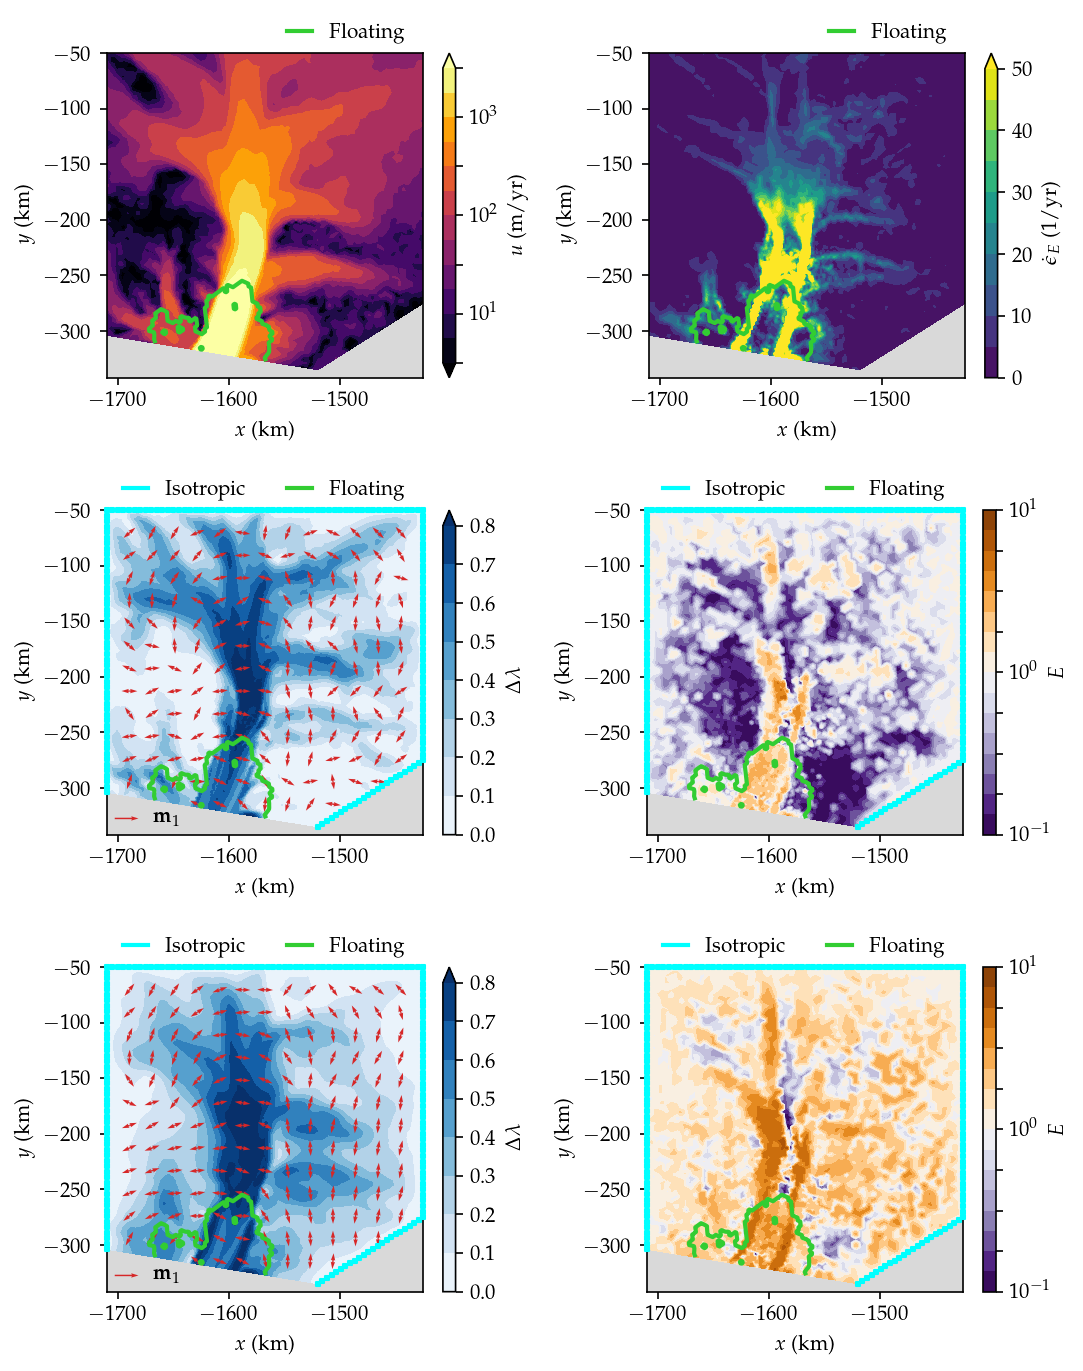
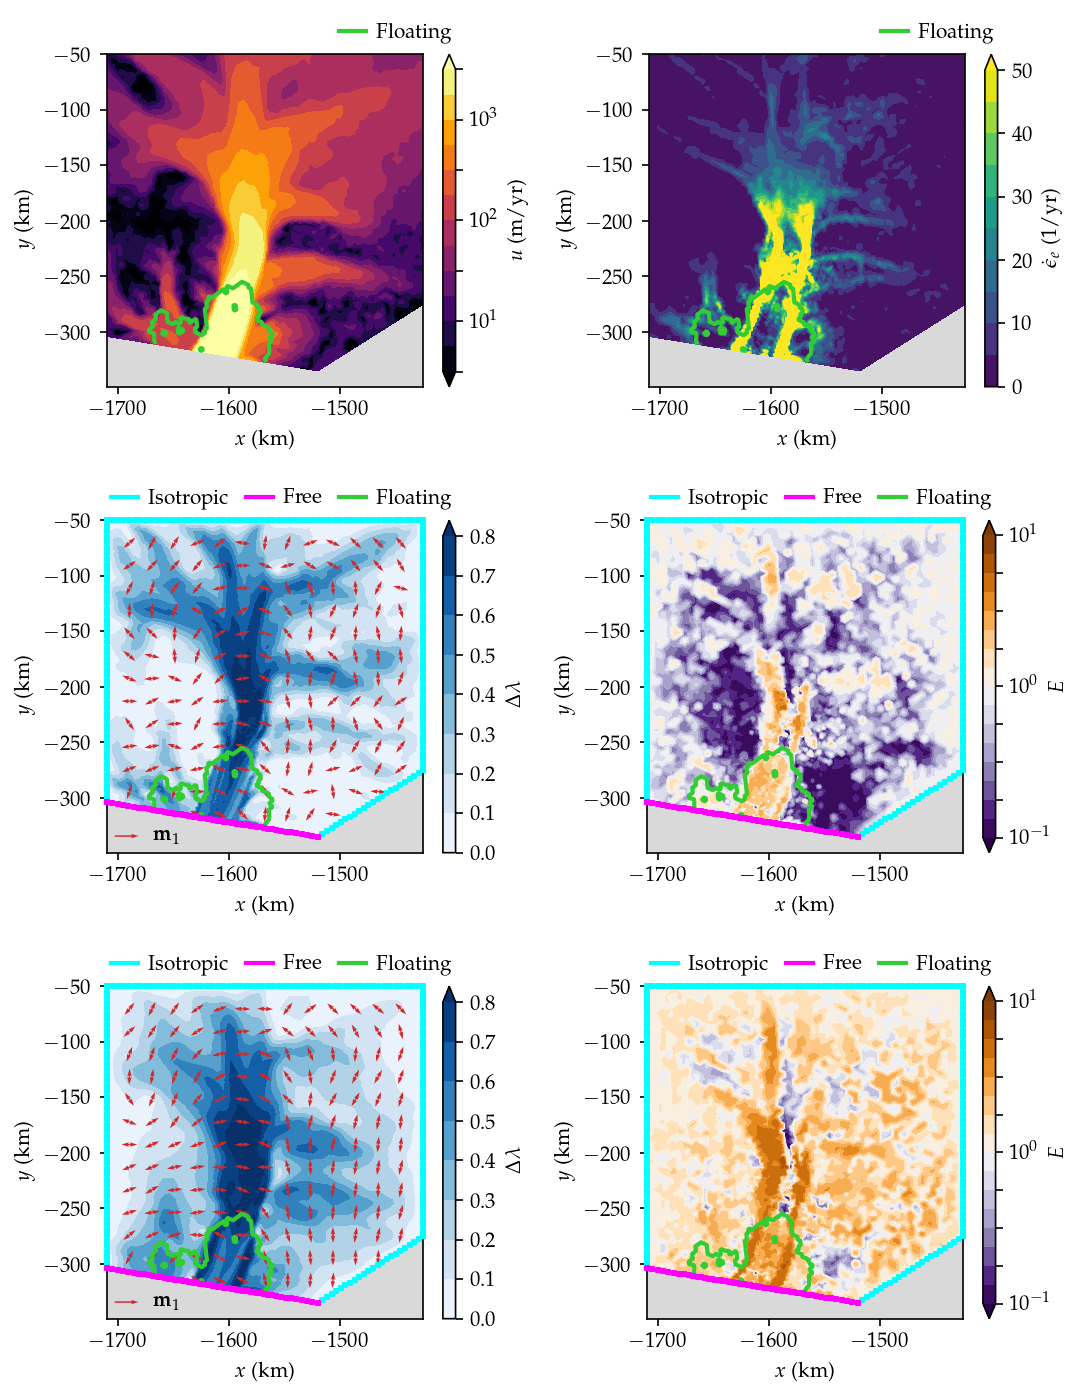
updated docs

diff --git a/src/specfabpy/fenics/steadyCPO.py b/src/specfabpy/fenics/steadyCPO.py
@@ -350,7 +350,7 @@ class steadyCPO():
         self.set_inputs()
         self.set_solution(problem['name'])
         kw_setupaxis = dict(boundaries=problem['bcs'])
-        kw_leg = dict(ncol=2, loc=1, bbox_to_anchor=(1,1.12), handlelength=1.2, fancybox=False, frameon=False)
+        kw_leg = dict(ncol=3, loc=1, bbox_to_anchor=(1,1.12), handlelength=1.2, fancybox=False, frameon=False)
         
         fig, ax = self.newfig(figsize=figsize)
         legh, legt = self.setupaxis(ax, **kw_setupaxis)
@@ -387,7 +387,7 @@ class steadyCPO():
         return self.plot_generic(ax, self.ms2myr*self.umag, kw_tcf=kw_tcf, kw_cb=kw_cb, kw_cax=kw_cax)
 
     def plot_strainratemag(self, ax, kw_cb=dict(label=r'$\dot{\epsilon}_{e}$ (1/yr)'), kw_cax=dict(), \
-                            kw_tcf=dict(cmap='viridis', lvls=np.arange(0, 50+.01, 5), extend='max')):
+                            kw_tcf=dict(cmap='viridis', levels=np.arange(0, 50+.01, 5), extend='max')):
                             
         return self.plot_generic(ax, 1e3*self.ms2myr*self.epsE, kw_tcf=kw_tcf, kw_cb=kw_cb, kw_cax=kw_cax)
 
@@ -474,7 +474,7 @@ class steadyCPO():
             for ii, (xb, yb) in enumerate(coords):
                 ax.scatter(xb*self.mapscale, yb*self.mapscale, c=colors[ii], marker=markers[ii], s=3, zorder=12, clip_on=False)
                 legh.append(Line2D([0], [0], color=colors[ii], lw=2))
-                legt.append('Isotropic')
+                legt.append('Isotropic' if ii == 0 else 'Free')
                 
         if floating: 
             ax.tricontour(self.triang, self.mask==3, [0.5, 1.5], colors=[self.c_floating,], linewidths=2, zorder=11)

diff --git a/docs/snippets/steady-SSA-solver/PIG.py b/docs/snippets/steady-SSA-solver/PIG.py
@@ -104,18 +104,19 @@ def newfig(boundaries=True, floating=True, mesh=False, bgcolor='0.85', figsize=(
         ax.triplot(triang, lw=0.075, color='0.5', alpha=0.8, zorder=10)
     if boundaries:
         coords, *_ = scpo.bmesh(problem['bcs'])
-        colors = ['cyan', 'yellow', 'magenta', 'aquamarine']
+        colors = ['cyan', 'magenta', 'yellow']
         markers = ['s',]*len(colors)
         for ii, (xb, yb) in enumerate(coords):
             ax.scatter(xb*mapscale, yb*mapscale, c=colors[ii], marker=markers[ii], s=3, zorder=12, clip_on=False)
             legh.append(Line2D([0], [0], color=colors[ii], lw=2))
-            legt.append('Isotropic')
+            legt.append('Isotropic' if ii == 0 else 'Free')
     if floating: 
         ax.tricontour(triang, mask==3, [0.5, 1.5], colors=['limegreen',], linewidths=2, zorder=11)
         legh.append(Line2D([0], [0], color='limegreen', lw=2))
         legt.append('Floating')
         
-    ax.legend(legh, legt, ncol=2, loc=1, bbox_to_anchor=(1,1.15), handlelength=1.2, fancybox=False, frameon=False)
+    ax.legend(legh, legt, ncol=3, loc=1, bbox_to_anchor=(1.15,1.15), fancybox=False, frameon=False, \
+                handletextpad=0.5, columnspacing=0.8, handlelength=1.3)
     ax.axis('square')
     ax.set_xlabel(r'$x$ (km)')
     ax.set_ylabel(r'$y$ (km)')

diff --git a/docs/gallery-SSA-fabric-solver.md b/docs/gallery-SSA-fabric-solver.md
@@ -59,7 +59,7 @@ which looks like this:
 ```python
 --8<-- "docs/snippets/steady-SSA-solver/PIG.py"
 ```
-The resulting plots are:
+The resulting plots are shown below, where the first row shows the velocity and strain rate field interpolated onto the model mesh, and the second and third row shows model results without and with DDRX, respectively. 
 
 ![](https://raw.githubusercontent.com/nicholasmr/specfab/main/docs/snippets/steady-SSA-solver/PIG-gallery.png){: style="width:700px"}
 
